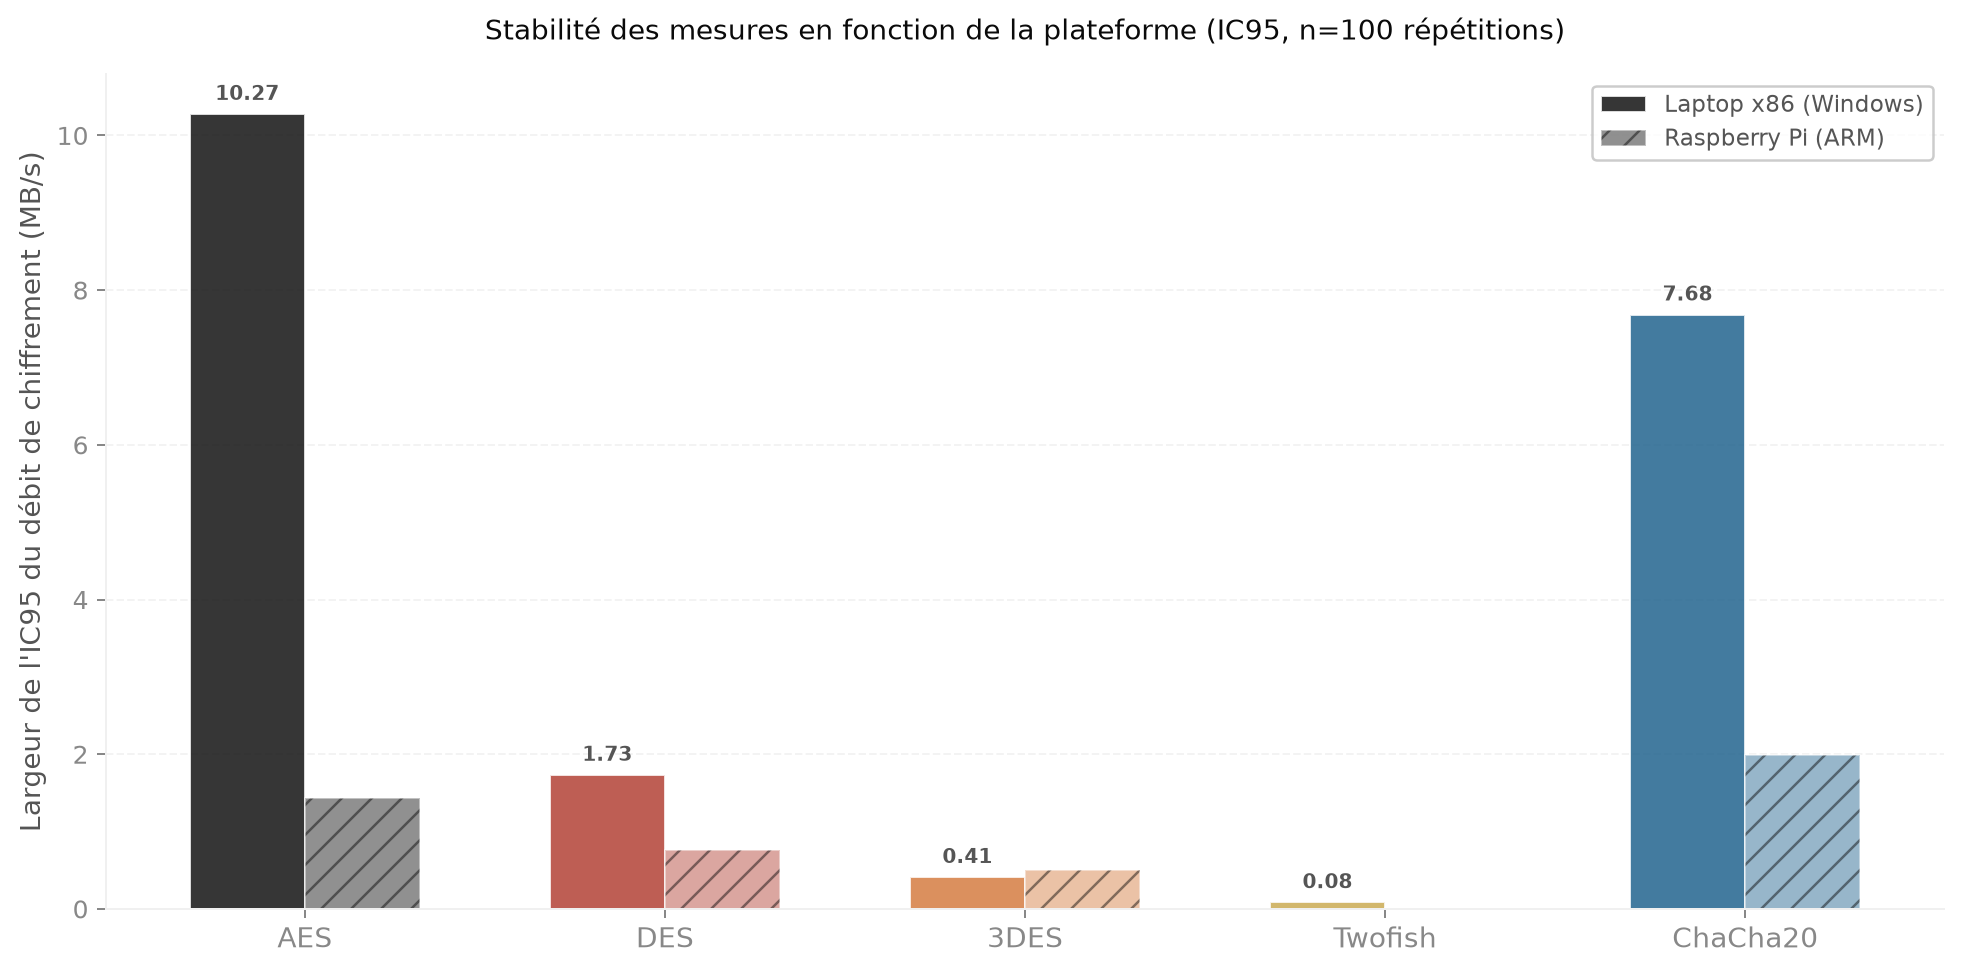
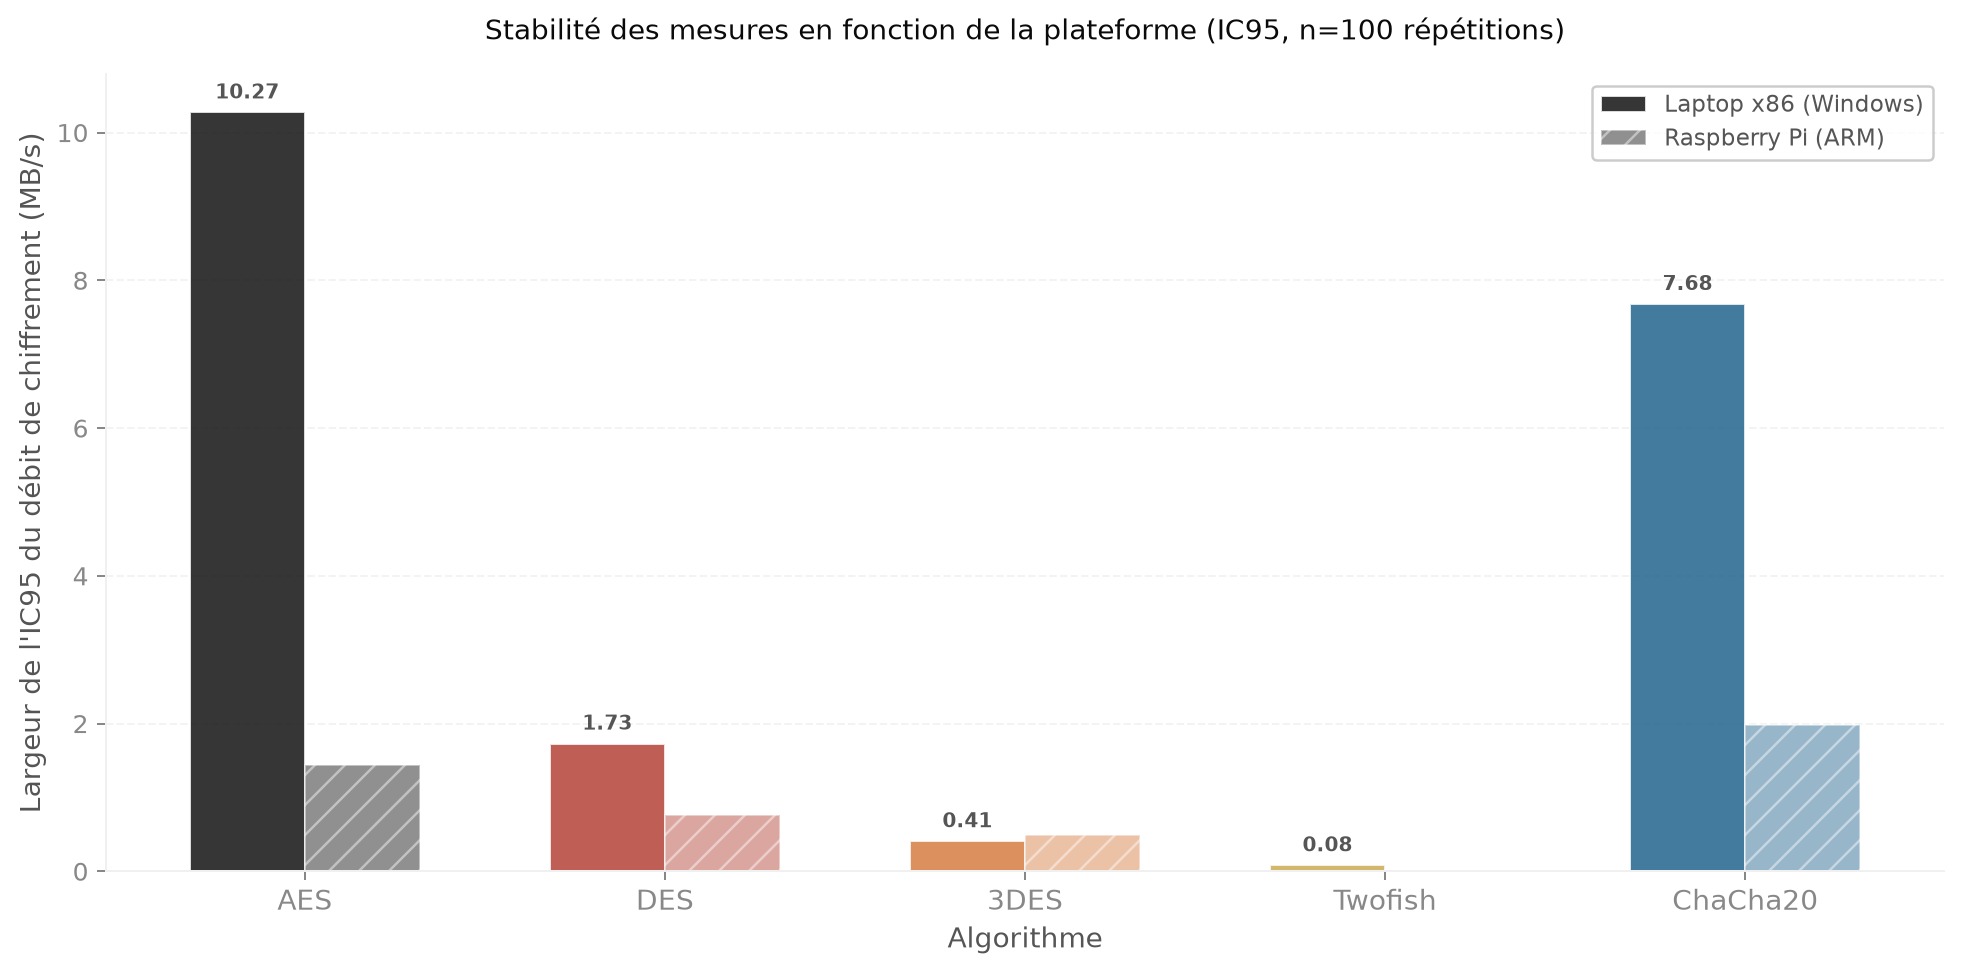
commit

diff --git a/crypto-experiments/scripts/charts/build_platform_comparison.py b/crypto-experiments/scripts/charts/build_platform_comparison.py
@@ -140,6 +140,7 @@ def cmp1_throughput_all():
 
     ax.set_xticks(x)
     ax.set_xticklabels(algo_order, fontsize=11)
+    ax.set_xlabel("Algorithme", fontsize=11)
     ax.set_ylabel("Débit de chiffrement (MB/s)", fontsize=11)
     ax.set_title(
         "Débit de chiffrement en fonction de l'algorithme",
@@ -224,6 +225,7 @@ def cmp1b_throughput_4096_pi():
 
     ax.set_xticks(tick_positions)
     ax.set_xticklabels(tick_labels, fontsize=7)
+    ax.set_xlabel("Mode et taille de clé", fontsize=11)
     ax.set_ylabel("Débit de chiffrement (MB/s)", fontsize=11)
     ax.set_title("Débit de chiffrement en fonction de l'algorithme et du mode", fontsize=11, pad=20)
     ax.text(
@@ -301,11 +303,16 @@ def cmp2_speedup_ratio():
                 fontsize=10, fontweight="bold", color=c)
 
     ax.set_ylabel("Rapport de débit x86 / Pi (×)", fontsize=11)
+    ax.set_xlabel("Algorithme", fontsize=11)
     ax.set_title(
-        "Ratio de performance en fonction de l'algorithme",
+        "Ratio de performance en fonction de l'algorithme (4096 octets)",
         fontsize=11,
     )
-    ax.legend(fontsize=9)
+    ax.legend(
+        fontsize=9,
+        title="Mode de ref. : ECB (AES, DES, 3DES, Twofish) | Stream (ChaCha20)",
+        title_fontsize=9,
+    )
     ax.set_ylim(bottom=0)
     ax.yaxis.grid(True)
     ax.set_axisbelow(True)
@@ -476,6 +483,7 @@ def cmp6_ci95_stability():
 
     ax.set_xticks(x)
     ax.set_xticklabels(algo_order, fontsize=11)
+    ax.set_xlabel("Algorithme", fontsize=11)
     ax.set_ylabel("Largeur de l'IC95 du débit de chiffrement (MB/s)", fontsize=11)
     ax.set_title(
         "Stabilité des mesures en fonction de la plateforme (IC95, n=100 répétitions)",
@@ -592,6 +600,7 @@ def cmp4_avalanche():
     ax.set_xticks(x)
     ax.set_xticklabels(algos, fontsize=11)
     ax.set_ylim(42.0, 64.0)
+    ax.set_xlabel("Algorithme", fontsize=11)
     ax.set_ylabel("Pourcentage de bits modifiés dans le texte chiffré (%)", fontsize=11)
     ax.set_title(
         "Score d'avalanche en fonction de l'algorithme",

diff --git a/docs/03-analysis-and-calculations/INF1430-TN4-Anlysis and result.md b/docs/03-analysis-and-calculations/INF1430-TN4-Anlysis and result.md
@@ -1,0 +1,69 @@
+# INF1430 — TN4 Analysis and Result
+
+## Résultats et analyse
+
+Cette
+section synthétise les principaux résultats expérimentaux obtenus pour les cinq
+algorithmes sur les deux plateformes, en mettant l'accent sur le débit de
+chiffrement, la stabilité statistique des mesures et l'effet d'avalanche. Ces
+trois axes correspondent directement aux objectifs de performance et de
+diffusion énoncés en introduction, et sont présentés dans cet ordre afin de
+construire l'analyse progressivement, en établissant d'abord la performance
+brute observée, puis en évaluant la fiabilité statistique de ces mesures, avant
+d'examiner une propriété cryptographique indépendante du débit. Chaque résultat
+est, dans la mesure du possible, mis en relation avec les sources normatives et
+la littérature déjà mobilisées dans ce rapport.
+
+### Débit de chiffrement selon la plateforme
+
+Le tableau suivant présente les débits maximaux observés en chiffrement, exprimés en mégaoctets par seconde, en retenant pour chaque algorithme la taille de message, parmi celles testées, ayant produit le débit le plus élevé. Les valeurs reprises ici proviennent de la même campagne finale consolidée que le reste de la section. Contrairement au Graphique 1, qui fixe une taille de message unique de 4096 octets afin de comparer les algorithmes dans des conditions strictement identiques, ce tableau vise à capturer la performance de pointe atteignable par chaque algorithme.
+
+**Tableau 2 — Débit maximal de chiffrement par algorithme, x86 versus ARM**
+
+| Algorithme | x86 (MB/s) | Pi ARM (MB/s) | Ratio x86/Pi |
+| ---------- | ---------: | ------------: | -----------: |
+| AES        |     279,46 |         54,68 |       5,11× |
+| ChaCha20   |     112,71 |         87,02 |       1,30× |
+| DES        |      32,19 |         30,76 |       1,05× |
+| Twofish    |       2,38 |          1,45 |       1,65× |
+| 3DES       |      11,47 |         11,32 |       1,01× |
+
+AES se démarque nettement avec le débit le plus élevé sur les deux plateformes, ce qui s'explique par le jeu d'instructions AES-NI présent sur le processeur x86 et absent sur le Raspberry Pi, d'où le ratio le plus élevé du tableau à 5,11 fois. Ce résultat rejoint la littérature, Stallings (2017) rapportant que le jeu d'instructions AES d'Intel procure des gains de vitesse de l'ordre d'une grandeur par rapport à une implémentation purement logicielle. ChaCha20 obtient le deuxième meilleur débit sur x86 avec un ratio de 1,30 fois, une stabilité qui correspond directement à la justification de conception donnée par la RFC 8439 (Nir et Langley, 2018), selon laquelle ChaCha20 répond au fait que l'AES perd une part importante de son avantage sur les plateformes sans matériel dédié. DES et 3DES affichent quant à eux les ratios les plus bas du tableau, respectivement 1,05 et 1,01 fois, cohérents avec des algorithmes plus anciens et sans optimisation matérielle dédiée. Twofish affiche le débit le plus faible sur les deux plateformes, restant environ 117 fois plus lent qu'AES sur x86, ce qui reflète l'absence totale d'accélération matérielle pour cet algorithme peu importe la plateforme utilisée.
+
+Le graphique suivant présente le débit de chiffrement observé pour les cinq algorithmes testés à une taille de message fixe de 4096 octets, avec une paire de barres par algorithme opposant la plateforme x86 sous Windows au Raspberry Pi sous architecture ARM, exprimé en mégaoctets par seconde. Comme pour le Tableau 2, la configuration de référence correspond au mode ECB pour les quatre chiffrements par blocs et au mode natif Stream pour ChaCha20.
+
+**Graphique 1 — Débit par algorithme, x86 versus ARM à 4096 octets**
+
+[Voir le graphique source](../../crypto-experiments/data/charts/01-throughput/throughput-by-algo-x86-vs-arm-4kb.png)
+
+En fixant la taille du message, ce graphique isole l'effet de la plateforme des variations liées au volume traité. Il montre qu'AES domine largement sur x86 grâce à l'accélération matérielle AES-NI, avec un écart d'environ 2,36 fois par rapport au Raspberry Pi, un écart réduit par rapport au 5,11 fois observé au débit maximal, ce qui confirme que l'avantage d'AES-NI (Stallings, 2017) s'exprime pleinement seulement quand le volume traité par appel est assez élevé pour amortir les coûts fixes, exactement la logique qui justifiait le choix de tester plusieurs tailles de messages dans le protocole. DES et 3DES affichent les écarts les plus faibles du graphique, avec des ratios de 1,13 et 1,12 fois respectivement, cohérents avec leur position déjà observée au débit maximal. ChaCha20 présente un écart modéré d'environ 1,22 fois, conforme à sa conception peu dépendante du matériel. Twofish affiche un écart intermédiaire d'environ 1,53 fois malgré son débit très faible sur les deux plateformes, ce qui montre que l'absence d'accélération matérielle touche autant sa vitesse absolue que la stabilité de son comportement d'une architecture à l'autre. Ce constat renforce l'idée que le choix d'un algorithme doit tenir compte du contexte matériel cible plutôt que d'une performance mesurée sur une seule plateforme de référence.
+
+Ces deux premières lectures, débit de pointe au Tableau 2 et débit à taille fixe au Graphique 1, remplissent des rôles méthodologiques distincts qui se complètent plutôt qu'ils ne se répètent. Le débit maximal renseigne sur la capacité de traitement la plus élevée qu'un algorithme peut atteindre dans les conditions les plus favorables du protocole, une information utile pour dimensionner un système autour de sa charge de pointe. Le débit à 4096 octets, à l'inverse, reflète une taille de message représentative d'un usage courant, plus proche de ce qu'on rencontre concrètement dans des échanges réseau typiques ou des blocs de stockage usuels, plutôt qu'un scénario optimisé pour maximiser le débit. Cette distinction explique en partie pourquoi le ratio d'AES se contracte notablement entre les deux mesures, le gain apporté par les instructions AES-NI dépend d'un coût fixe amorti sur chaque appel, notamment la préparation du calendrier de clés, un coût qui pèse proportionnellement moins lorsque le message traité est volumineux. Cette nuance justifie de ne pas se fier à une seule de ces deux lectures pour orienter un choix d'algorithme, la performance de pointe et la performance représentative pouvant classer les mêmes algorithmes différemment selon le contexte d'utilisation réel visé.
+
+Le deuxième tableau et le premier graphique ont révélé des écarts de débit variables entre x86 et Raspberry Pi selon l'algorithme utilisé. Pour quantifier directement cet écart, le graphique suivant présente le rapport entre le débit obtenu sur x86 et celui obtenu sur Raspberry Pi pour chaque algorithme, avec la même configuration que le Graphique 1, mode ECB ou Stream, message de 4096 octets, et clés fixées à AES 256 bits, DES 56 bits, 3DES 192 bits, Twofish 256 bits et ChaCha20 256 bits. Un ratio proche de 1 indique une performance comparable entre les deux plateformes, alors qu'un ratio élevé révèle une dépendance plus forte au matériel x86.
+
+**Graphique 2 — Ratio d'accélération x86 sur ARM par algorithme**
+
+[Voir le graphique source](../../crypto-experiments/data/charts/01-throughput/speedup-ratio-x86-over-arm-by-algo.png)
+
+Ce graphique confirme qu'AES reste l'algorithme le plus dépendant du matériel x86, avec un ratio de 2,36 fois, cohérent avec les deux graphiques précédents. Le classement se complète avec Twofish, à 1,53 fois, puis ChaCha20 à 1,22 fois, DES à 1,13 fois et 3DES à 1,12 fois. Le graphique reproduit ainsi la même hiérarchie que celle observée au Tableau 2, mais avec des écarts globalement moins marqués à cette taille de message intermédiaire, en particulier pour AES, dont le ratio passe de 5,11 fois au débit maximal à 2,36 fois à 4096 octets. Le ratio de Twofish se situe nettement au-dessus de celui de DES, 3DES et ChaCha20, qui ne bénéficient pourtant pas non plus d'accélération matérielle, un écart qui reflète probablement l'hétérogénéité logicielle documentée en méthodologie plutôt qu'un effet matériel additionnel.
+
+Le deuxième graphique a montré que les ratios plateforme se regroupent majoritairement près de 1, à l'exception notable d'AES et, dans une moindre mesure, de Twofish. ChaCha20, seul chiffrement de flux de l'échantillon, affiche l'un des ratios les plus bas de ce classement. Pour vérifier si cette faible dépendance matérielle se maintient à travers différents volumes de données, plutôt que d'être un effet propre à la taille de 4096 octets, le graphique suivant présente son débit de chiffrement sur les deux plateformes pour cinq tailles de messages croissantes, de 64 à 16 384 octets.
+
+**Graphique 3 — Débit de ChaCha20 en fonction de la taille du message**
+
+[Voir le graphique source](../../crypto-experiments/data/charts/01-throughput/throughput-vs-message-size-chacha20-x86-vs-arm.png)
+
+Le tableau suivant reprend les valeurs exactes utilisées pour tracer ce graphique. Il permet de lire directement le débit mesuré sur chaque plateforme pour les cinq tailles de message testées.
+
+**Tableau 3 — Débit de ChaCha20 selon la taille du message**
+
+| Taille du message (octets) | x86 (MB/s) | Pi ARM (MB/s) | Ratio x86/Pi |
+| -------------------------- | ---------: | ------------: | -----------: |
+| 64                         |   2,868888 |      2,200209 |   1,303916× |
+| 256                        |  12,018057 |      8,701194 |   1,381196× |
+| 1024                       |  39,588272 |     27,531695 |   1,437916× |
+| 4096                       |  77,230578 |     63,463658 |   1,216926× |
+| 16384                      | 112,706147 |     87,017987 |   1,295205× |
+
+Ce graphique révèle que l'écart de débit entre x86 et Raspberry Pi pour ChaCha20 varie entre 1,22 et 1,44 fois selon la taille du message, sans tendance claire à la hausse ou à la baisse. Il est aussi intéressant de noter qu'à 16384 octets, ChaCha20 sur Raspberry Pi atteint 87,02 MB/s, ce qui dépasse largement le débit obtenu par DES sur x86 à cette même taille de message, soit environ 32,19 MB/s. Cet écart s'explique par la conception de ChaCha20, fondée sur des opérations d'addition, de rotation et de XOR (ARX) qui s'exécutent nativement et en temps constant sur pratiquement toutes les architectures, un choix de conception motivé notamment par le fait que plusieurs implémentations d'AES demeurent vulnérables aux attaques par synchronisation de cache (cache-timing), un problème que la RFC 8439 (Nir et Langley, 2018) identifie explicitement comme l'une des motivations de ChaCha20, alors que DES reste pénalisé par sa structure historique en réseau de Feistel avec des permutations bit à bit coûteuses. Cette sous-section se referme ainsi sur les deux extrêmes déjà entrevus au Tableau 2, la stabilité inter-plateforme de ChaCha20 d'une part, et Twofish d'autre part, qui demeure l'algorithme le plus pénalisé par l'absence d'accélération matérielle, avec un écart d'environ 117 fois par rapport au débit maximal atteint par AES sur x86.

diff --git a/docs/03-analysis-and-calculations/INF1430-TN3-chaacha20-extrait-corrige.md b/docs/03-analysis-and-calculations/INF1430-TN3-chaacha20-extrait-corrige.md
@@ -1,0 +1,21 @@
+# Extrait corrigé — ChaCha20 et comparaison plateforme
+
+Le point de transition avant le graphique de ratio doit utiliser **DES 56 bits** et non 64 bits, afin de rester cohérent avec la clé effective utilisée dans le reste du rapport.
+
+**Tableau — Débit de ChaCha20 selon la taille du message**
+
+| Taille du message (octets) | x86 (MB/s) | Pi ARM (MB/s) | Ratio x86/Pi |
+|---|---:|---:|---:|
+| 64 | 2.868888 | 2.200209 | 1.303916× |
+| 256 | 12.018057 | 8.701194 | 1.381196× |
+| 1024 | 39.588272 | 27.531695 | 1.437916× |
+| 4096 | 77.230578 | 63.463658 | 1.216926× |
+| 16384 | 112.706147 | 87.017987 | 1.295205× |
+
+Ce tableau montre que le ratio x86/Pi reste dans une plage étroite, entre **1,22×** et **1,44×**, sans changement de tendance marqué selon la taille du message. Dans la matrice actuelle, ChaCha20 est mesuré uniquement sur les tailles 64, 256, 1024, 4096 et 16384 octets.
+
+**Graphique 3 — Débit de ChaCha20 en fonction de la taille du message**
+
+[Voir le graphique source](../../crypto-experiments/data/charts/01-throughput/throughput-vs-message-size-chacha20-x86-vs-arm.png)
+
+À 16384 octets, ChaCha20 atteint environ **112,71 MB/s** sur x86 et **87,02 MB/s** sur Raspberry Pi. L'écart observé reste modéré et confirme que ChaCha20 conserve un comportement relativement stable d'une plateforme à l'autre.
